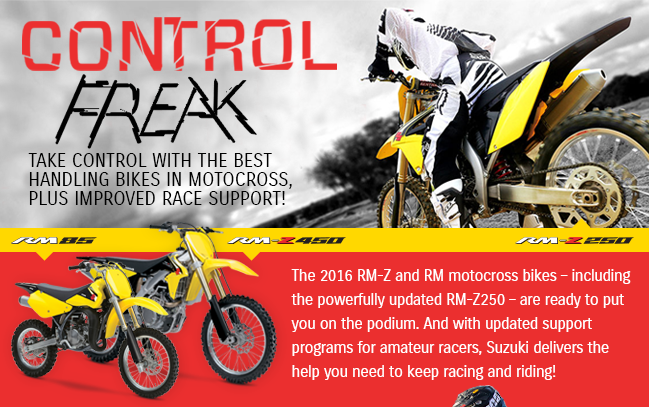
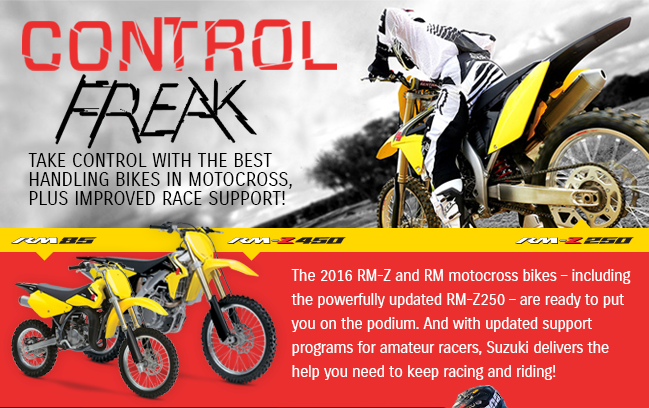
updating images slices

diff --git a/src/suzuki/20150720/email.html b/src/suzuki/20150720/email.html
@@ -110,21 +110,35 @@
 
                 <tr>
                   <td class="image">
-                    <a href="http://www.suzukicycles.com/rm-z"><img src="images/img-01.png" alt="2016 RM-Z and RM motocross bikes" width="649" height="407" style="display: block; outline: none; text-decoration: none; -ms-interpolation-mode: bicubic; font-size: 10px; border: none;"></a>
+                    <a href="http://www.suzukicycles.com/rm-z"><img src="images/img-01.png" alt="2016 RM-Z and RM motocross bikes" width="649" height="408" style="display: block; outline: none; text-decoration: none; -ms-interpolation-mode: bicubic; font-size: 10px; border: none;"></a>
                   </td>
                 </tr>
                 <!-- end image -->
 
                 <tr>
                   <td class="image">
-                    <a href="http://www.racesuzuki.com/"><img src="images/img-02.png" alt="RACESUZUKI.COM" width="649" height="372" style="display: block; outline: none; text-decoration: none; -ms-interpolation-mode: bicubic; font-size: 10px; border: none;"></a>
+                    <a href="http://www.racesuzuki.com/"><img src="images/img-02.png" alt="RACESUZUKI.COM" width="649" height="371" style="display: block; outline: none; text-decoration: none; -ms-interpolation-mode: bicubic; font-size: 10px; border: none;"></a>
                   </td>
                 </tr>
                 <!-- end image -->
 
                 <tr>
+                  <td>
+                    <table align="center" border="0" cellpadding="0" cellspacing="0" width="100%">
+                    
+                      <tr>
+                        <td><a href="http://www.racesuzuki.com/"><img src="images/img-03.png" height="180" width="202" alt="Contingency" style="display: block; outline: none; text-decoration: none; -ms-interpolation-mode: bicubic; font-size: 10px; border: none;"></a></td>
+                        <td><a href="http://www.racesuzuki.com/news/suzuki-trackside-support/"><img src="images/img-04.png" height="180" width="236" alt="Trackside Support" style="display: block; outline: none; text-decoration: none; -ms-interpolation-mode: bicubic; font-size: 10px; border: none;"></a></td>
+                        <td><a href="http://www.racesuzuki.com/news/suzuki-camp-carmichael/"><img src="images/img-05.png" height="180" width="211" alt="Camp Carmichael" style="display: block; outline: none; text-decoration: none; -ms-interpolation-mode: bicubic; font-size: 10px; border: none;"></a></td>
+                      </tr>
+                      
+                    </table> 
+                  </td>
+                </tr>
+
+                <tr>
                   <td class="image">
-                    <a href="http://www.suzukicycles.com/News/2015/07/RM-Z%20Graphics%20Kit%20Promotion.aspx?Page=1"><img src="images/img-03.png" alt="Free custom graphics kit when you buy a 2016 RM-Z 450, RM-Z 250, or RM85" width="649" height="617" style="display: block; outline: none; text-decoration: none; -ms-interpolation-mode: bicubic; font-size: 10px; border: none;"></a>
+                    <a href="http://www.suzukicycles.com/News/2015/07/RM-Z%20Graphics%20Kit%20Promotion.aspx?Page=1"><img src="images/img-06.png" alt="Free custom graphics kit when you buy a 2016 RM-Z 450, RM-Z 250, or RM85" width="649" height="437" style="display: block; outline: none; text-decoration: none; -ms-interpolation-mode: bicubic; font-size: 10px; border: none;"></a>
                   </td>
                 </tr>
                 <!-- end image -->

diff --git a/src/suzuki/20150720/template.html b/src/suzuki/20150720/template.html
@@ -285,21 +285,35 @@
 
                 <tr>
                   <td class="image">
-                    <a href="http://www.suzukicycles.com/rm-z"><img src="images/img-01.png" alt="2016 RM-Z and RM motocross bikes" width="649" height="407"/></a>
+                    <a href="http://www.suzukicycles.com/rm-z"><img src="images/img-01.png" alt="2016 RM-Z and RM motocross bikes" width="649" height="408"/></a>
                   </td>
                 </tr>
                 <!-- end image -->
 
                 <tr>
                   <td class="image">
-                    <a href="http://www.racesuzuki.com/"><img src="images/img-02.png" alt="RACESUZUKI.COM" width="649" height="372"/></a>
+                    <a href="http://www.racesuzuki.com/"><img src="images/img-02.png" alt="RACESUZUKI.COM" width="649" height="371"/></a>
                   </td>
                 </tr>
                 <!-- end image -->
 
                 <tr>
+                  <td>
+                    <table align="center" border="0" cellpadding="0" cellspacing="0" width="100%">
+                    
+                      <tr>
+                        <td><a href="http://www.racesuzuki.com/"><img src="images/img-03.png" height="180" width="202" alt="Contingency" /></a></td>
+                        <td><a href="http://www.racesuzuki.com/news/suzuki-trackside-support/"><img src="images/img-04.png" height="180" width="236" alt="Trackside Support" /></a></td>
+                        <td><a href="http://www.racesuzuki.com/news/suzuki-camp-carmichael/"><img src="images/img-05.png" height="180" width="211" alt="Camp Carmichael" /></a></td>
+                      </tr>
+                      
+                    </table> 
+                  </td>
+                </tr>
+
+                <tr>
                   <td class="image">
-                    <a href="http://www.suzukicycles.com/News/2015/07/RM-Z%20Graphics%20Kit%20Promotion.aspx?Page=1"><img src="images/img-03.png" alt="Free custom graphics kit when you buy a 2016 RM-Z 450, RM-Z 250, or RM85" width="649" height="617"/></a>
+                    <a href="http://www.suzukicycles.com/News/2015/07/RM-Z%20Graphics%20Kit%20Promotion.aspx?Page=1"><img src="images/img-06.png" alt="Free custom graphics kit when you buy a 2016 RM-Z 450, RM-Z 250, or RM85" width="649" height="437"/></a>
                   </td>
                 </tr>
                 <!-- end image -->
